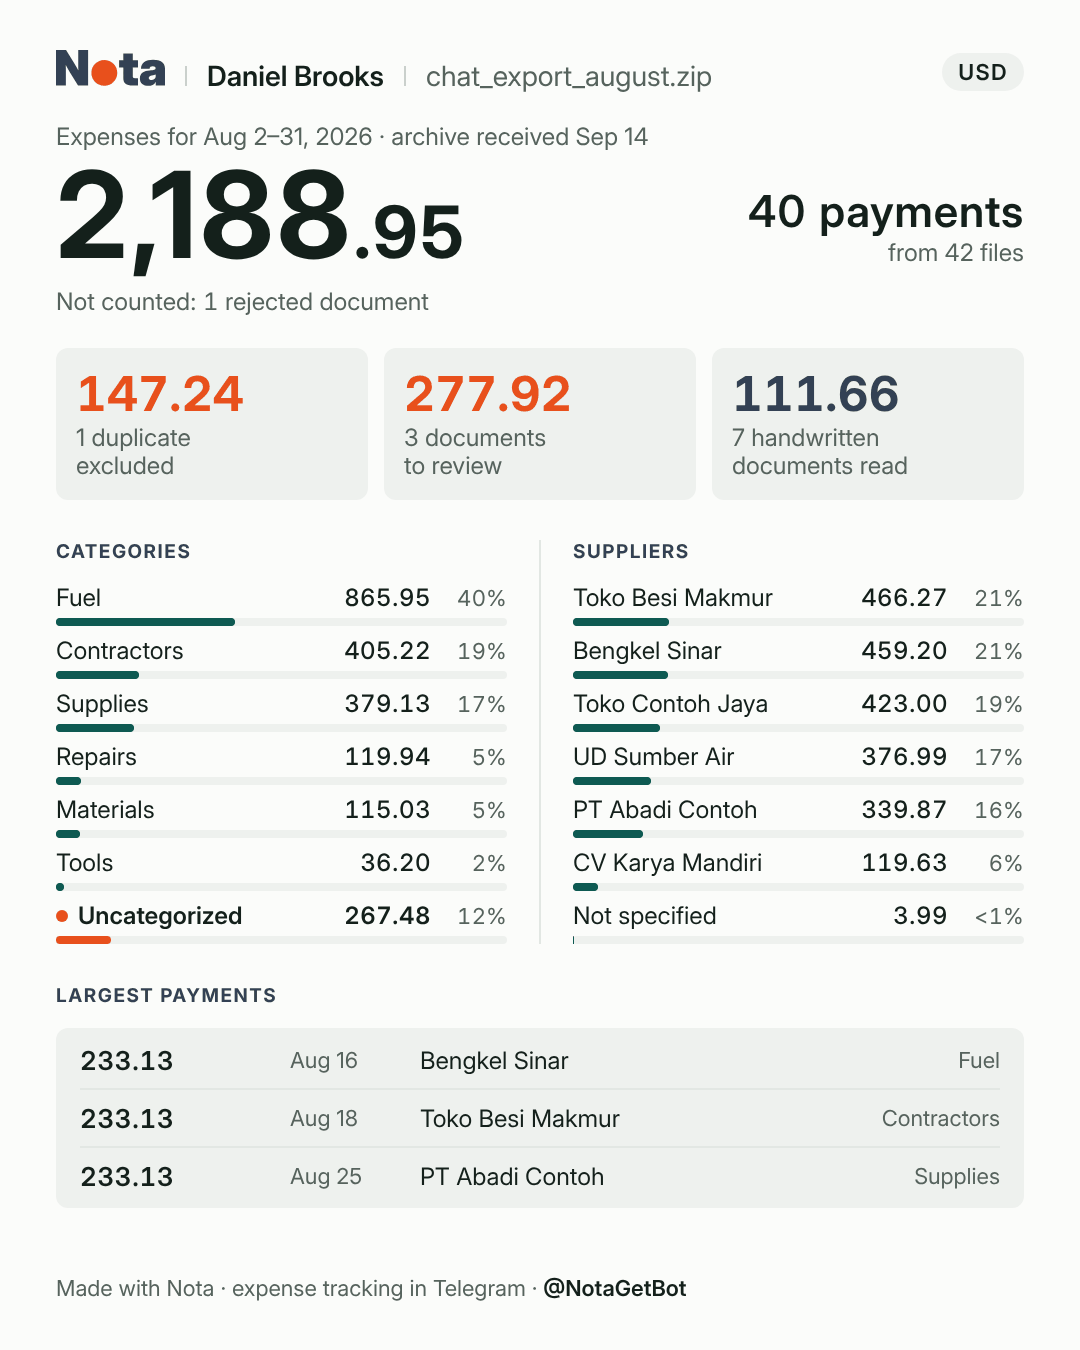
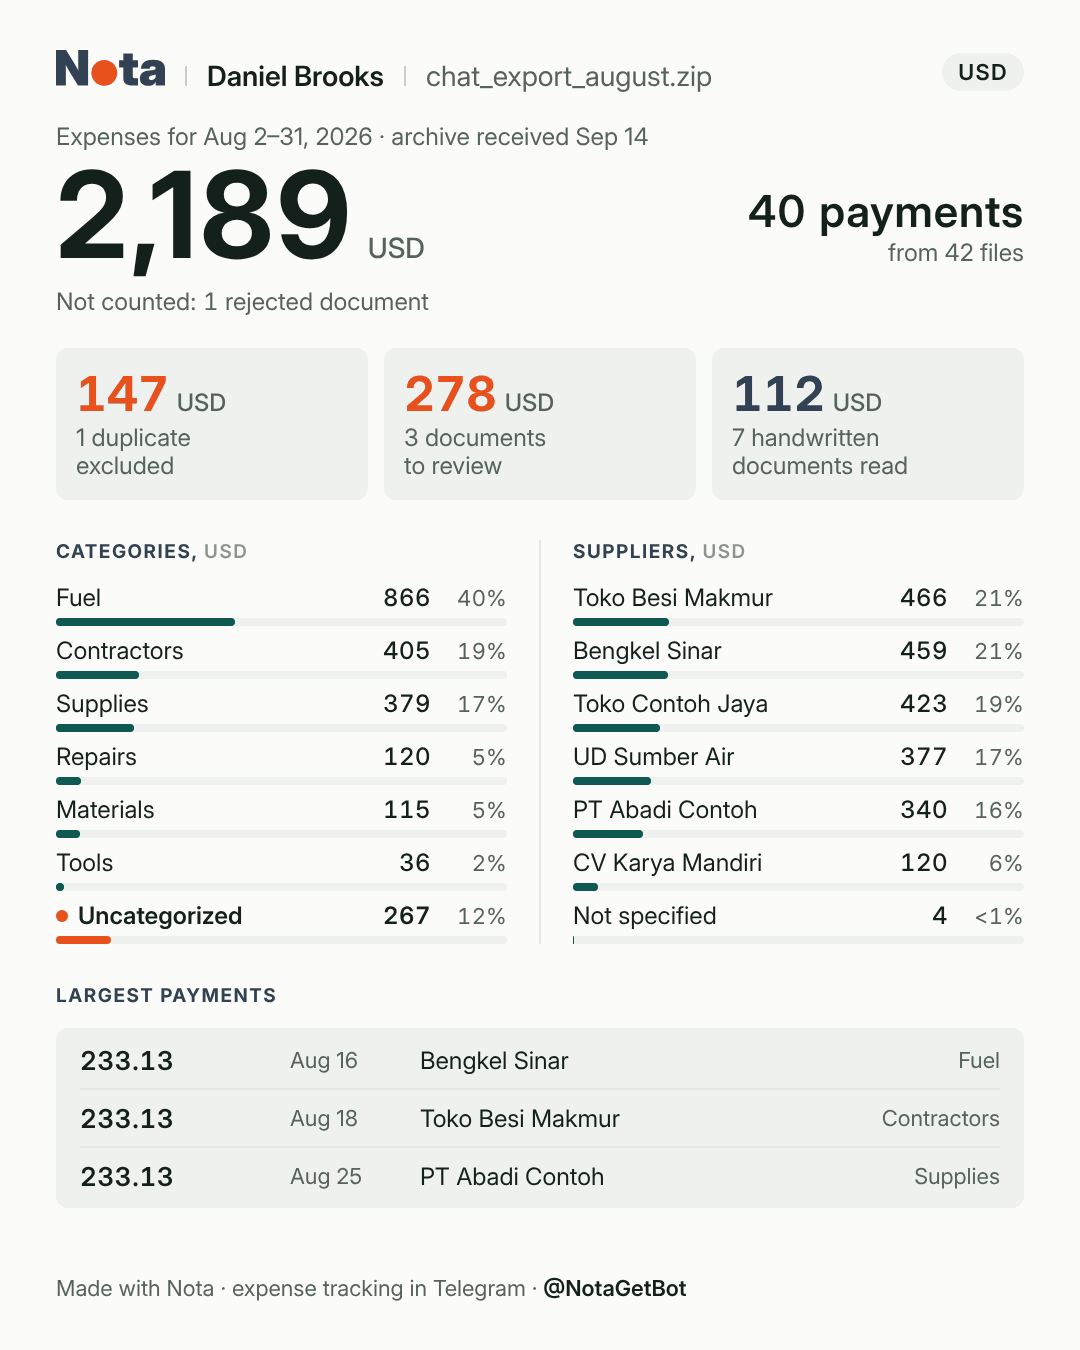
Карточки отчётов: USD, EUR, SGD — код валюты и суммы без центов
Там, где у рупий «млн», у долларов, евро и сингапурских стоит код валюты:
у итога, среднего, сравнения, плиток и в заголовках. Суммы целыми,
крупнейшие платежи — точные, с центами. Образцы обновлены.

Claude-Session: https://claude.ai/code/session_01L3HhR7LSGwJtypFbeUeh92

diff --git a/founder/report-cards/generator/cards.py b/founder/report-cards/generator/cards.py
@@ -16,15 +16,17 @@ TEAL = '#0E5A52'; ORANGE = '#E8501C'; GREEN = '#0C7A4F'; MUTED = '#56635D'; GRAY
 HSTY = 'font-size: 19px; font-weight: 700; letter-spacing: 0.08em; color: #334154'
 
 # ---------------- валюты ----------------
-# scale — делитель для коротких сумм (млн / тыс. / как есть); full_dec — знаков после запятой у полных сумм.
+# scale — делитель для коротких сумм (млн / тыс. / как есть); dec — знаков у коротких сумм (итог, списки, среднее, изменения);
+# full_dec — знаков у полных сумм (крупнейшие платежи). USD, EUR, SGD — без центов везде, кроме крупнейших платежей (основатель, 17.11).
+# unit — подпись у итога, среднего, плиток и в заголовках: у USD, EUR, SGD — код валюты там же, где у рупий «млн» (основатель, 17.11).
 CUR = {
-    'IDR': dict(scale=1e6, unit={'ru': 'млн', 'en': 'M', 'id': 'jt'}, full_dec=0),
-    'VND': dict(scale=1e6, unit={'ru': 'млн', 'en': 'M', 'id': 'jt'}, full_dec=0),
-    'RUB': dict(scale=1e3, unit={'ru': 'тыс.', 'en': 'K', 'id': 'rb'}, full_dec=0),
-    'THB': dict(scale=1e3, unit={'ru': 'тыс.', 'en': 'K', 'id': 'rb'}, full_dec=0),
-    'USD': dict(scale=1, unit={'ru': '', 'en': '', 'id': ''}, full_dec=2),
-    'EUR': dict(scale=1, unit={'ru': '', 'en': '', 'id': ''}, full_dec=2),
-    'SGD': dict(scale=1, unit={'ru': '', 'en': '', 'id': ''}, full_dec=2),
+    'IDR': dict(scale=1e6, unit={'ru': 'млн', 'en': 'M', 'id': 'jt'}, dec=2, full_dec=0),
+    'VND': dict(scale=1e6, unit={'ru': 'млн', 'en': 'M', 'id': 'jt'}, dec=2, full_dec=0),
+    'RUB': dict(scale=1e3, unit={'ru': 'тыс.', 'en': 'K', 'id': 'rb'}, dec=2, full_dec=0),
+    'THB': dict(scale=1e3, unit={'ru': 'тыс.', 'en': 'K', 'id': 'rb'}, dec=2, full_dec=0),
+    'USD': dict(scale=1, unit={'ru': 'USD', 'en': 'USD', 'id': 'USD'}, dec=0, full_dec=2),
+    'EUR': dict(scale=1, unit={'ru': 'EUR', 'en': 'EUR', 'id': 'EUR'}, dec=0, full_dec=2),
+    'SGD': dict(scale=1, unit={'ru': 'SGD', 'en': 'SGD', 'id': 'SGD'}, dec=0, full_dec=2),
 }
 
 # ---------------- числа ----------------
@@ -41,17 +43,18 @@ def num(v, loc, dec=2, gap='0.24em'):
     s = _group(i, loc, gap=gap) + ((SEP[loc][1] + d) if dec else '')
     return ('−' if neg else '') + s
 def short(v, loc, cur):
-    """Сумма в единицах валюты (млн / тыс. / как есть), 2 знака; меньше 0,005 — «<0,01»."""
-    x = v / CUR[cur]['scale']
-    if 0 < abs(x) < 0.005: return '&lt;0' + SEP[loc][1] + '01'
-    return num(x, loc)
+    """Сумма в единицах валюты (млн / тыс. / как есть): IDR, VND, RUB, THB — 2 знака, меньше 0,005 — «<0,01»;
+    USD, EUR, SGD — целые, меньше 0,5 — «<1»."""
+    x = v / CUR[cur]['scale']; dec = CUR[cur]['dec']
+    if 0 < abs(x) < 0.5 * 10 ** -dec: return '&lt;' + ('0' + SEP[loc][1] + '01' if dec else '1')
+    return num(x, loc, dec=dec)
 def full(v, loc, cur):
     return num(v, loc, dec=CUR[cur]['full_dec'], gap='0.33em')
 def big_span(v, loc, cur):
-    x = v / CUR[cur]['scale']; n = len(str(int(abs(x))))
+    x = v / CUR[cur]['scale']; dec = CUR[cur]['dec']; n = len(str(int(round(abs(x), dec))))
     fs, dc = (120, 72) if n <= 4 else ((100, 60) if n == 5 else ((84, 50) if n == 6 else (72, 44)))
-    q = f'{x:.2f}'; i, d = q.split('.')
-    body = _group(int(i), loc, gap='0.3em') + f'<span style="font-size: {dc}px">{SEP[loc][1]}{d}</span>'
+    if dec: i, d = f'{x:.2f}'.split('.'); body = _group(int(i), loc, gap='0.3em') + f'<span style="font-size: {dc}px">{SEP[loc][1]}{d}</span>'
+    else: body = _group(int(round(x)), loc, gap='0.3em')                 # USD, EUR, SGD — без центов
     return f'<span style="font-size: {fs}px; font-weight: 700; line-height: 1; letter-spacing: 0.025em; color: {INK}; white-space: nowrap">{body}</span>'
 
 # ---------------- тексты ----------------
@@ -193,7 +196,7 @@ def deltas(items, prev_inc, key, loc, cur):
     for k, v, kind in items:
         if kind == 'o': continue
         d = v - p.get(k, 0)
-        if abs(d / CUR[cur]['scale']) >= 0.005: vals[k] = d
+        if abs(d / CUR[cur]['scale']) >= 0.5 * 10 ** -CUR[cur]['dec']: vals[k] = d   # меньше 0,01 (в USD — меньше 1) не показываем
     if not vals: return {}
     mx = max(vals.values()); mn = min(vals.values()); out = {}
     for k, d in vals.items():

diff --git a/founder/report-cards/README.md b/founder/report-cards/README.md
@@ -54,7 +54,7 @@
 - Языки: ru, en, id — все тексты карточки в словаре `T`; месяцы и дни недели свои. Язык карточки (`loc`) — тот, что задан в таблице клиента.
 - Категории генератор берёт из листа Payments как есть, без перевода: какие названия в таблице, такие и в карточке (основатель, 17.11). Язык категорий задаёт таблица. Своё название генератор пишет только для пустой категории: «Без категории» / «Uncategorized» / «Tanpa kategori».
 - Числа: ru «1 230,45», en «1,230.45», id «1.230,45».
-- Валюты (`CUR`): IDR, VND — в миллионах («млн» / «M» / «jt»); RUB, THB — в тысячах («тыс.» / «K» / «rb»); USD, EUR, SGD — как есть, с копейками, без единицы. Плашка в шапке — код валюты. Полные суммы платежей — без дробной части для IDR, VND, RUB, THB и с двумя знаками для USD, EUR, SGD.
+- Валюты (`CUR`): IDR, VND — в миллионах («млн» / «M» / «jt»); RUB, THB — в тысячах («тыс.» / «K» / «rb»); USD, EUR, SGD — как есть, а там, где у рупий «млн», стоит код валюты: «490 USD», «70 USD в среднем за день», «КАТЕГОРИИ, USD» (основатель, 17.11: у итога всегда валюта, «$» путается между USD и SGD). Суммы целыми: итог, списки, среднее, сравнение, плитки, график и изменения без центов, сумма меньше 0,5 — «<1», изменение меньше 1 не показываем; крупнейшие платежи — точные, с центами, чтобы узнать документ (основатель, 17.11). Плашка в шапке — код валюты. Полные суммы платежей — без дробной части для IDR, VND, RUB, THB и с двумя знаками для USD, EUR, SGD.
 - Проверено 17.11: все 4 формата на матрице ru-IDR, en-USD, id-IDR, ru-RUB, en-EUR, id-VND, ru-THB, en-SGD (32 карточки) — без переполнений и наложений, шрифт загружен; стресс-набор архива, недели и месяца (20 случаев: огромные суммы, один документ, только дубли, без категорий и поставщиков, длинные имена, переходы через месяц и год, февраль, первый месяц, отчёт по запросу) и первых 30 документов (16 случаев: огромные и копеечные суммы, только дубли, всё отклонено, без категорий и поставщиков, длинные имена и категории, переход через год, все в один день, много категорий, другой бесплатный объём) — итог совпадает со списками, проценты дают 100.
 
 ## Генератор
